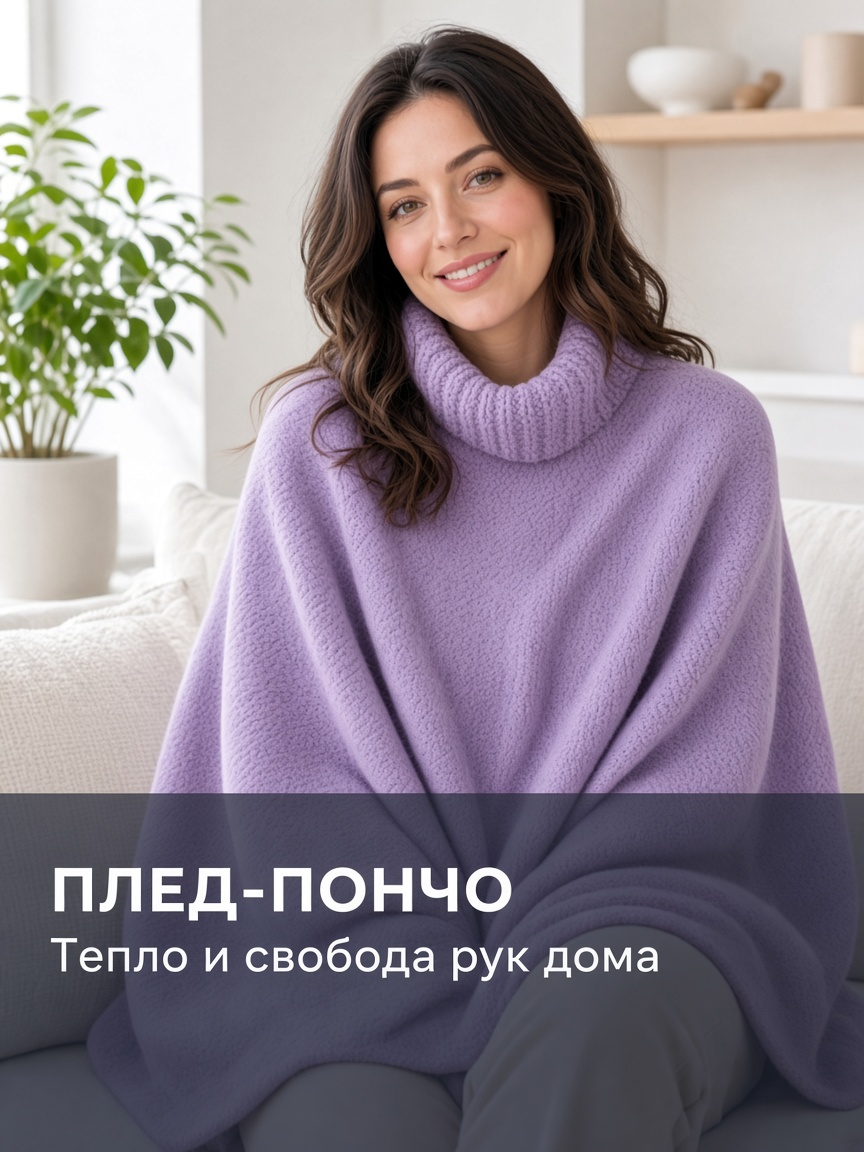
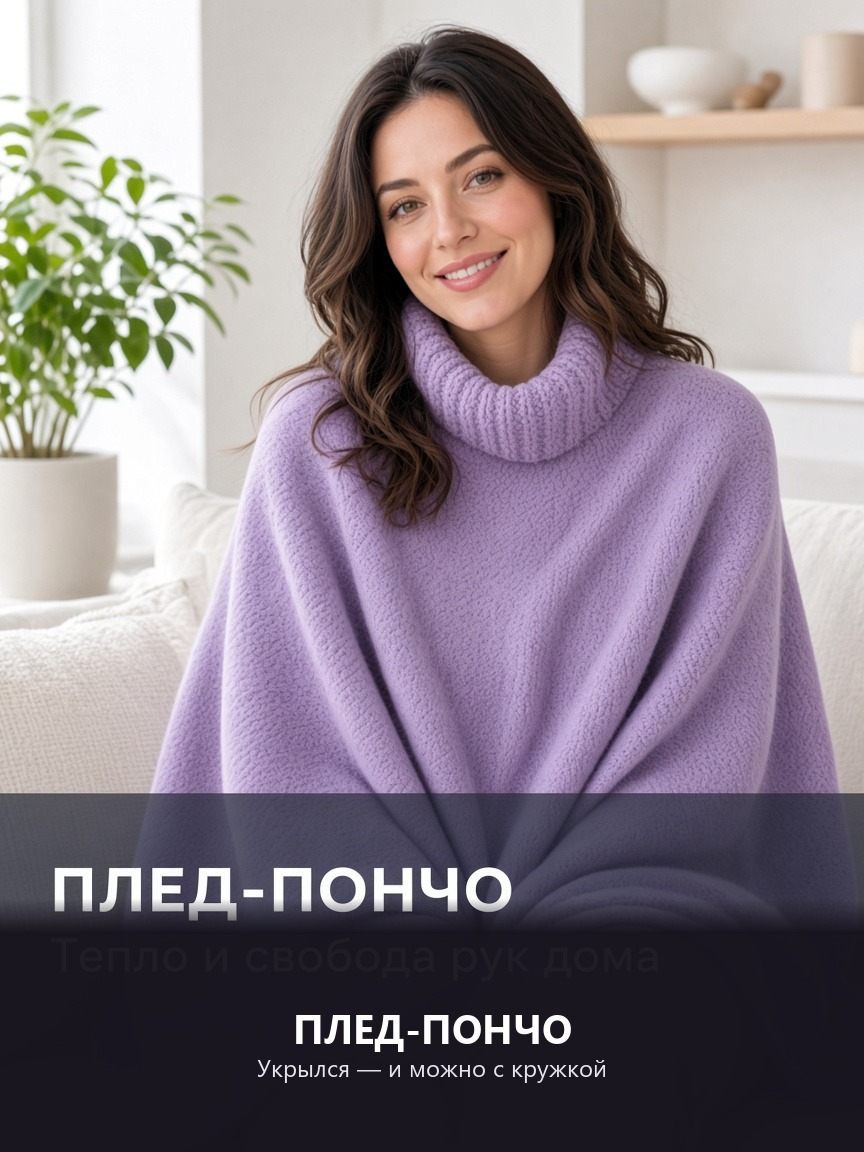
Update poncho cover and benefit copy from buyer research.
Stronger cover sub and clarified sizing/hands-free lines; care says no dryer.

Changed region(s): [[0.0, 0.7812, 1.0, 1.0]]

diff --git a/public/marketplace/index.html b/public/marketplace/index.html
@@ -229,11 +229,11 @@
           <p class="mp-case__text">Lifestyle, фактура, выгоды, сценарии «когда носить» и уход — без пустых полей и лишних обещаний.</p>
         </div>
         <div class="mp-slides">
-          <figure class="mp-slide"><img src="../images/marketplace/case3/01_cover.jpg" alt="Обложка плед-пончо" loading="lazy" width="450" height="600"><figcaption>01 · обложка</figcaption></figure>
+          <figure class="mp-slide"><img src="../images/marketplace/case3/01_cover.jpg?v=20261027k" alt="Обложка плед-пончо" loading="lazy" width="450" height="600"><figcaption>01 · обложка</figcaption></figure>
           <figure class="mp-slide"><img src="../images/marketplace/case3/02_product.jpg" alt="Фактура и крой" loading="lazy" width="450" height="600"><figcaption>02 · товар</figcaption></figure>
-          <figure class="mp-slide"><img src="../images/marketplace/case3/03_benefits.jpg?v=20261027h" alt="Выгоды" loading="lazy" width="450" height="600"><figcaption>03 · выгоды</figcaption></figure>
+          <figure class="mp-slide"><img src="../images/marketplace/case3/03_benefits.jpg?v=20261027k" alt="Выгоды" loading="lazy" width="450" height="600"><figcaption>03 · выгоды</figcaption></figure>
           <figure class="mp-slide"><img src="../images/marketplace/case3/04_scenarios.jpg?v=20261027f" alt="Когда носить" loading="lazy" width="450" height="600"><figcaption>04 · сценарии</figcaption></figure>
-          <figure class="mp-slide"><img src="../images/marketplace/case3/05_care.jpg?v=20261027h" alt="Состав и уход" loading="lazy" width="450" height="600"><figcaption>05 · уход</figcaption></figure>
+          <figure class="mp-slide"><img src="../images/marketplace/case3/05_care.jpg?v=20261027k" alt="Состав и уход" loading="lazy" width="450" height="600"><figcaption>05 · уход</figcaption></figure>
         </div>
       </article>
     </div>

diff --git a/public/showcase/mp/index.html b/public/showcase/mp/index.html
@@ -154,9 +154,9 @@
           <h3 class="mp-case__title">Плед-пончо</h3>
         </div>
         <div class="mp-slides">
-          <figure class="mp-slide"><img src="../../images/marketplace/case3/01_cover.jpg" alt="" loading="lazy" width="450" height="600"></figure>
+          <figure class="mp-slide"><img src="../../images/marketplace/case3/01_cover.jpg?v=20261027k" alt="" loading="lazy" width="450" height="600"></figure>
           <figure class="mp-slide"><img src="../../images/marketplace/case3/04_scenarios.jpg?v=20261027f" alt="" loading="lazy" width="450" height="600"></figure>
-          <figure class="mp-slide"><img src="../../images/marketplace/case3/05_care.jpg?v=20261027h" alt="" loading="lazy" width="450" height="600"></figure>
+          <figure class="mp-slide"><img src="../../images/marketplace/case3/05_care.jpg?v=20261027k" alt="" loading="lazy" width="450" height="600"></figure>
         </div>
       </article>
 
